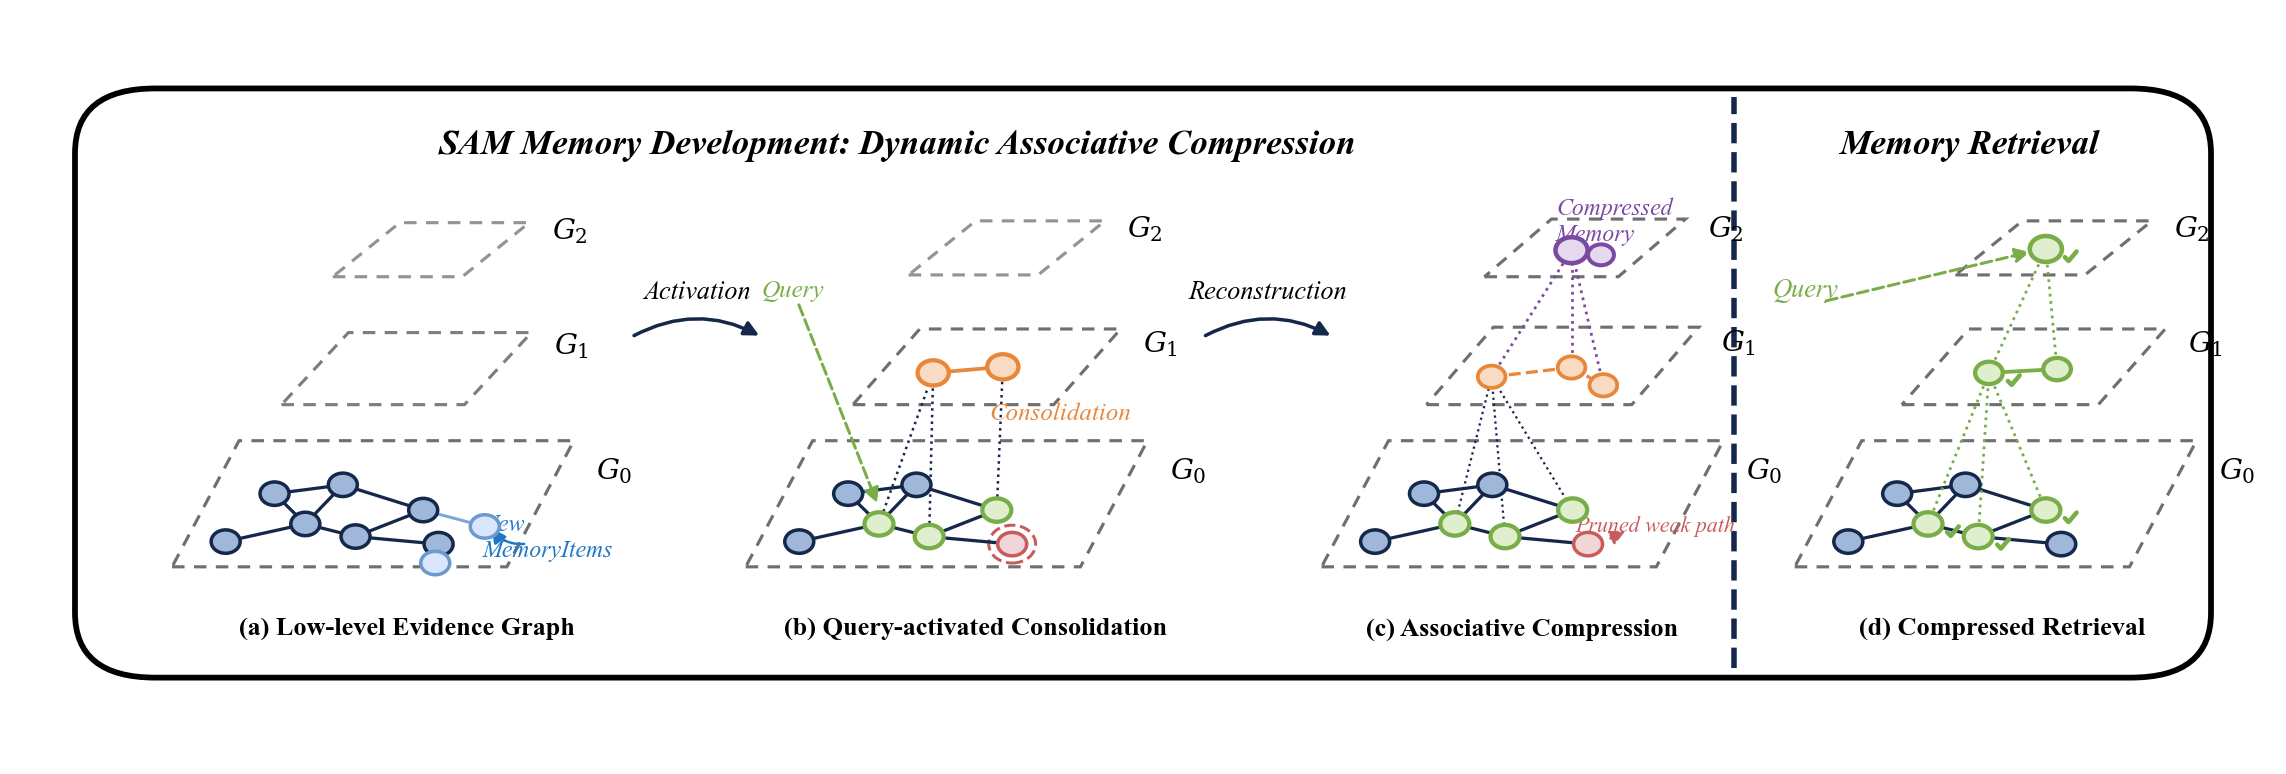
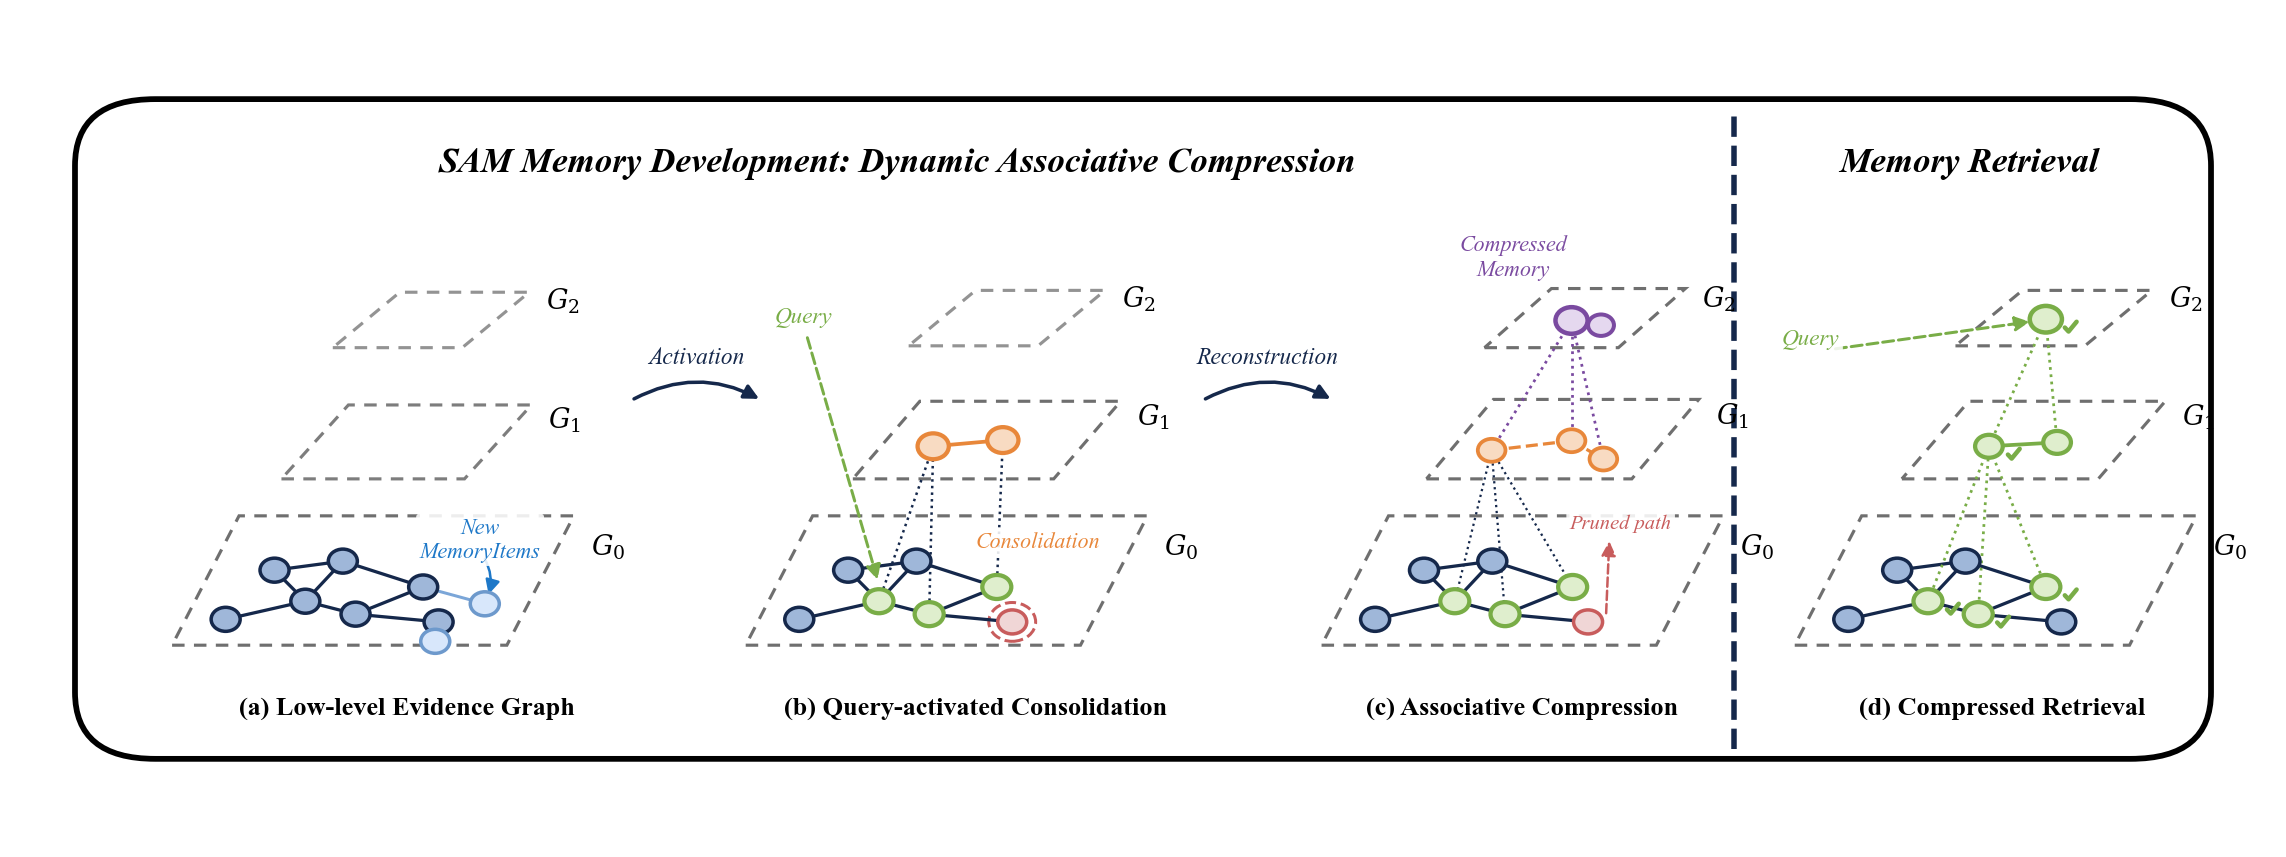
docs: refine sam memory process figure

diff --git a/scripts/render_sam_memory_process_figure.py b/scripts/render_sam_memory_process_figure.py
@@ -38,26 +38,26 @@ def main() -> None:
             "axes.unicode_minus": False,
         }
     )
-    fig, ax = plt.subplots(figsize=(16, 5.2), dpi=180)
+    fig, ax = plt.subplots(figsize=(16, 5.8), dpi=180)
     ax.set_xlim(0, 100)
-    ax.set_ylim(0, 40)
+    ax.set_ylim(0, 43.5)
     ax.axis("off")
 
     outer = FancyBboxPatch(
         (2.5, 4.2),
         95,
-        32.0,
+        35.0,
         boxstyle="round,pad=0.35,rounding_size=3.6",
         linewidth=2.3,
         edgecolor="black",
         facecolor="white",
     )
     ax.add_patch(outer)
-    ax.plot([76.5, 76.5], [4.4, 36.1], color=COLORS["navy"], lw=2.2, ls="--")
+    ax.plot([76.5, 76.5], [4.4, 39.0], color=COLORS["navy"], lw=2.2, ls="--")
 
     ax.text(
         39.0,
-        33.4,
+        36.1,
         "SAM Memory Development: Dynamic Associative Compression",
         ha="center",
         va="center",
@@ -67,7 +67,7 @@ def main() -> None:
     )
     ax.text(
         87.0,
-        33.4,
+        36.1,
         "Memory Retrieval",
         ha="center",
         va="center",
@@ -77,9 +77,9 @@ def main() -> None:
     )
 
     draw_panel_a(ax, 6.5, 10.0)
-    draw_transition(ax, (27.0, 22.7), (33.0, 22.7), "Activation")
+    draw_transition(ax, (27.0, 23.2), (33.0, 23.2), "Activation")
     draw_panel_b(ax, 32.2, 10.0)
-    draw_transition(ax, (52.6, 22.7), (58.6, 22.7), "Reconstruction")
+    draw_transition(ax, (52.6, 23.2), (58.6, 23.2), "Reconstruction")
     draw_panel_c(ax, 58.0, 10.0)
     draw_panel_d(ax, 79.2, 10.0)
 
@@ -137,7 +137,39 @@ def draw_plane(
         alpha=alpha,
     )
     ax.add_patch(patch)
-    ax.text(x + w + skew + 1.0, y + h * 0.7, label, fontsize=11.5, fontweight="bold")
+    ax.text(x + w + skew + 0.75, y + h * 0.7, label, fontsize=10.8, fontweight="bold")
+
+
+def label_box(
+    ax,
+    x: float,
+    y: float,
+    text: str,
+    *,
+    color: str,
+    fontsize: float = 9.0,
+    ha: str = "center",
+    va: str = "center",
+) -> None:
+    """给流程注释加白底，避免文字和节点、边混在一起。"""
+
+    ax.text(
+        x,
+        y,
+        text,
+        ha=ha,
+        va=va,
+        color=color,
+        fontsize=fontsize,
+        fontstyle="italic",
+        zorder=12,
+        bbox={
+            "boxstyle": "round,pad=0.16",
+            "facecolor": "white",
+            "edgecolor": "none",
+            "alpha": 0.88,
+        },
+    )
 
 
 def node(
@@ -231,8 +263,8 @@ def draw_panel_a(ax, x: float, y: float) -> None:
     node(ax, new2, color=COLORS["blue_light"], edge="#6d99cc")
     draw_plane(ax, x + 4.9, y + 9.0, 8.2, 4.0, r"$G_1$", alpha=0.9)
     draw_plane(ax, x + 7.2, y + 16.1, 5.8, 3.0, r"$G_2$", alpha=0.75)
-    ax.text(x + 13.9, y + 0.6, "New\nMemoryItems", color="#1e78c8", fontsize=9.5, fontstyle="italic")
-    arrow(ax, (x + 16.0, y + 1.3), (new1[0] + 0.2, new1[1] + 0.15), color="#1e78c8", rad=-0.35, lw=1.0)
+    label_box(ax, x + 13.8, y + 5.7, "New\nMemoryItems", color="#1e78c8", fontsize=8.8)
+    arrow(ax, (x + 13.9, y + 4.9), (new1[0] + 0.1, new1[1] + 0.25), color="#1e78c8", rad=-0.25, lw=1.0)
 
 
 def draw_panel_b(ax, x: float, y: float) -> None:
@@ -248,9 +280,9 @@ def draw_panel_b(ax, x: float, y: float) -> None:
     node(ax, c2, color=COLORS["orange_light"], edge=COLORS["orange"], radius=0.70, lw=1.7)
     for src, dst in [(pts["b"], c1), (pts["c"], c1), (pts["d"], c2)]:
         edge(ax, src, dst, color=COLORS["navy"], lw=1.0, ls=":")
-    ax.text(x + 10.9, y + 8.2, "Consolidation", color=COLORS["orange"], fontsize=10, fontstyle="italic")
-    ax.text(x + 0.7, y + 15.0, "Query", color=COLORS["green"], fontsize=10, fontstyle="italic")
-    arrow(ax, (x + 2.3, y + 14.8), (pts["b"][0], pts["b"][1] + 0.9), color=COLORS["green"], lw=1.2, ls="--")
+    label_box(ax, x + 13.1, y + 5.6, "Consolidation", color=COLORS["orange"], fontsize=8.8)
+    label_box(ax, x + 2.6, y + 17.8, "Query", color=COLORS["green"], fontsize=9.2)
+    arrow(ax, (x + 2.7, y + 16.9), (pts["b"][0], pts["b"][1] + 0.9), color=COLORS["green"], lw=1.2, ls="--")
     ax.add_patch(Circle((pts["g"][0], pts["g"][1]), 1.05, fill=False, edgecolor=COLORS["red"], lw=1.2, ls="--"))
 
 
@@ -276,9 +308,9 @@ def draw_panel_c(ax, x: float, y: float) -> None:
         edge(ax, c, insight, color=COLORS["purple"], lw=1.1, ls=":")
     for src in [pts["b"], pts["c"], pts["d"]]:
         edge(ax, src, c1, color=COLORS["navy"], lw=0.9, ls=":")
-    ax.text(x + 10.5, y + 18.1, "Compressed\nMemory", color=COLORS["purple"], fontsize=9.5, fontstyle="italic")
-    ax.text(x + 11.4, y + 2.0, "Pruned weak path", color=COLORS["red"], fontsize=8.8, fontstyle="italic")
-    arrow(ax, (pts["g"][0] + 0.8, pts["g"][1] + 0.2), (x + 13.8, y + 2.1), color=COLORS["red"], lw=1.0, ls="--")
+    label_box(ax, x + 8.6, y + 21.0, "Compressed\nMemory", color=COLORS["purple"], fontsize=8.8)
+    label_box(ax, x + 13.4, y + 6.6, "Pruned path", color=COLORS["red"], fontsize=8.2)
+    arrow(ax, (pts["g"][0] + 0.8, pts["g"][1] + 0.2), (x + 12.9, y + 5.9), color=COLORS["red"], lw=1.0, ls="--")
 
 
 def draw_panel_d(ax, x: float, y: float) -> None:
@@ -298,15 +330,15 @@ def draw_panel_d(ax, x: float, y: float) -> None:
         edge(ax, c, insight, color=COLORS["green"], lw=1.1, ls=":")
     for src in [pts["b"], pts["c"], pts["d"]]:
         edge(ax, src, c1, color=COLORS["green"], lw=1.1, ls=":")
-    ax.text(x - 1.0, y + 15.0, "Query", color=COLORS["green"], fontsize=10.5, fontstyle="italic")
-    arrow(ax, (x + 1.2, y + 14.7), (insight[0] - 0.5, insight[1] - 0.1), color=COLORS["green"], lw=1.2, ls="--")
+    label_box(ax, x + 0.7, y + 16.6, "Query", color=COLORS["green"], fontsize=9.2)
+    arrow(ax, (x + 1.6, y + 16.0), (insight[0] - 0.5, insight[1] - 0.1), color=COLORS["green"], lw=1.2, ls="--")
     for p in [insight, c1, pts["b"], pts["c"], pts["d"]]:
         check(ax, p[0] + 0.85, p[1] - 0.45, scale=0.48)
 
 
 def draw_transition(ax, p1: tuple[float, float], p2: tuple[float, float], label: str) -> None:
     arrow(ax, p1, p2, color=COLORS["navy"], lw=1.4, rad=-0.28)
-    ax.text((p1[0] + p2[0]) / 2, p1[1] + 2.2, label, ha="center", fontsize=10.5, fontstyle="italic")
+    label_box(ax, (p1[0] + p2[0]) / 2, p1[1] + 2.4, label, color=COLORS["navy"], fontsize=9.4)
 
 
 def draw_caption(ax, x: float, title: str) -> None: